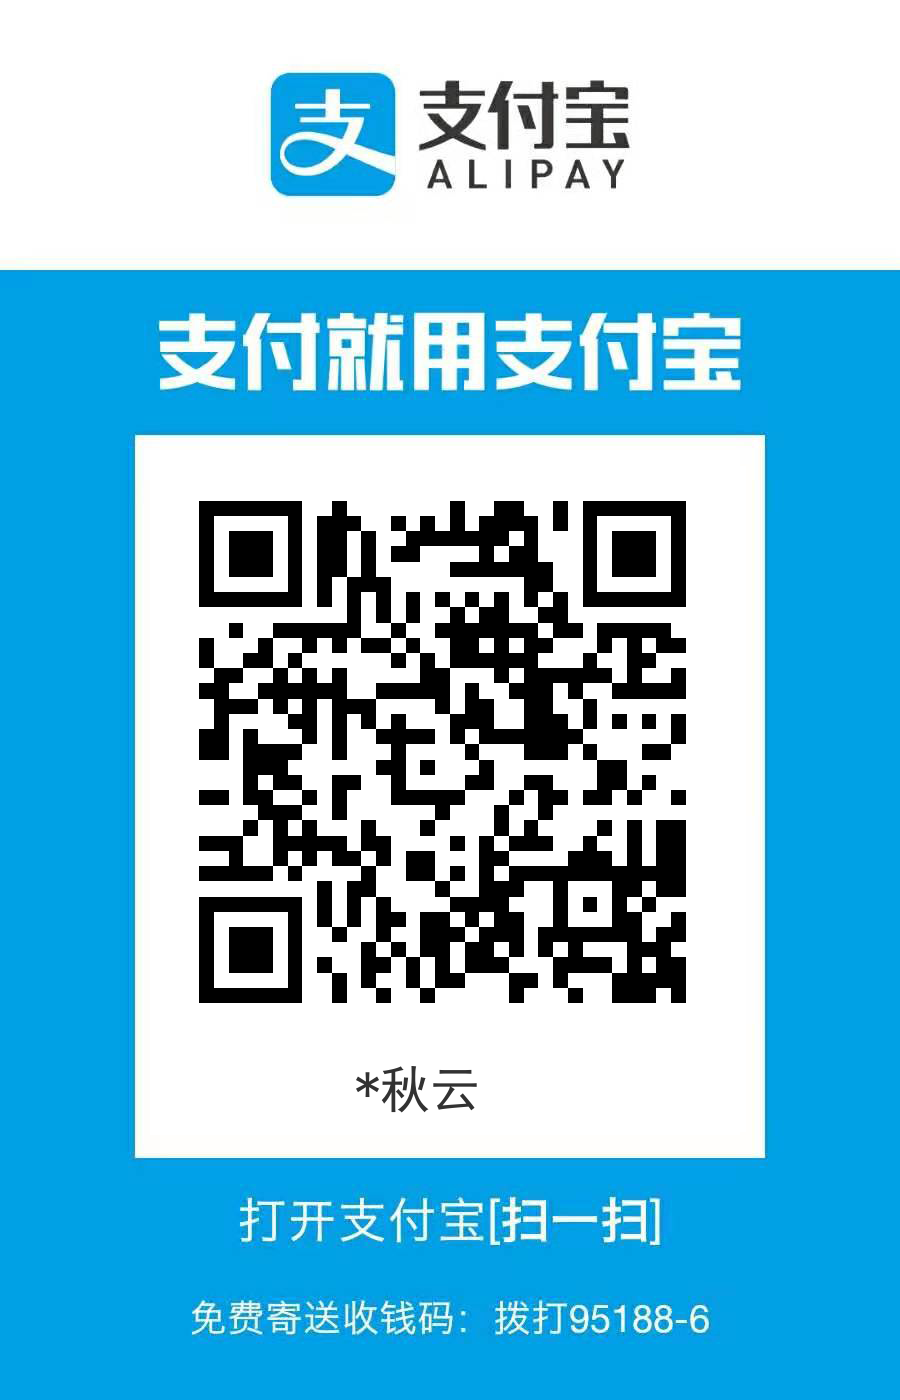
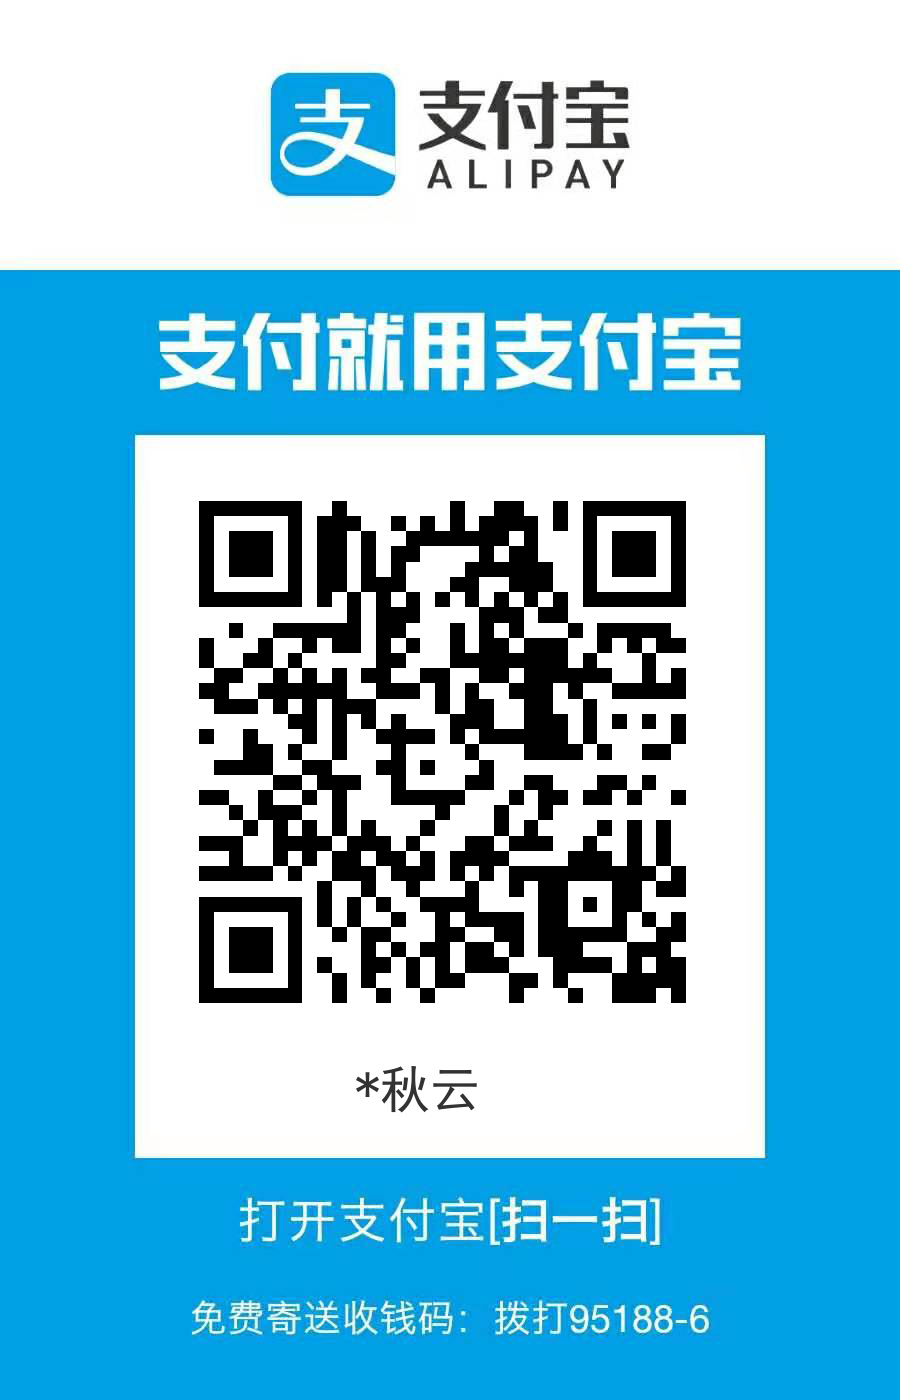
转账码

diff --git a/小爬虫/转账码生成/银行卡转账码/spider.py b/小爬虫/转账码生成/银行卡转账码/spider.py
@@ -163,13 +163,13 @@ class Spider:
         # 普通转账url
         content = self.read_txt()
         # 新接口
-        _url = f'https://ds.alipay.com/?from=mobilecodec&scheme=alipays%3A%2F%2Fplatformapi%2Fstartapp%3FappId%3D20000200' \
-               f'%26actionType%3DtoCard%26sourceId=bill%26cardNo={content[1]}%26bankAccount={content[0]}%0A%26money=' \
-               f'%26amount=%26bankMark={content[3]}%26bankName={content[4]}%26cardNoHidden=true%26cardChannel=HISTORY_CARD%26orderSource=from'
+        # _url = f'https://ds.alipay.com/?from=mobilecodec&scheme=alipays%3A%2F%2Fplatformapi%2Fstartapp%3FappId%3D20000200' \
+        #        f'%26actionType%3DtoCard%26sourceId=bill%26cardNo={content[1]}%26bankAccount={content[0]}%0A%26money=' \
+        #        f'%26amount=%26bankMark={content[3]}%26bankName={content[4]}%26cardNoHidden=true%26cardChannel=HISTORY_CARD%26orderSource=from'
         # 旧接口
-        # _url = 'https://www.alipay.com/?appId=09999988&actionType=toCard&sourceId=bill&cardNo={}&bankAccount={}&' \
-        #        'money=&amount=&bankMark={}&bankName={}&orderSource='.format(content[1], content[0], content[3], content[4])
-        # print(_url)
+        _url = 'https://www.alipay.com/?appId=09999988&actionType=toCard&sourceId=bill&cardNo={}&bankAccount={}&' \
+               'money=&amount=&bankMark={}&bankName={}&orderSource='.format(content[1], content[0], content[3], content[4])
+        print(_url)
         # _url = quote(_url, string.printable)
         # print(_url)
         # _url = 'http://www.dongdongmeiche.com/alipay/6173c10d1d5911ea9aec28d2447ab52e'
